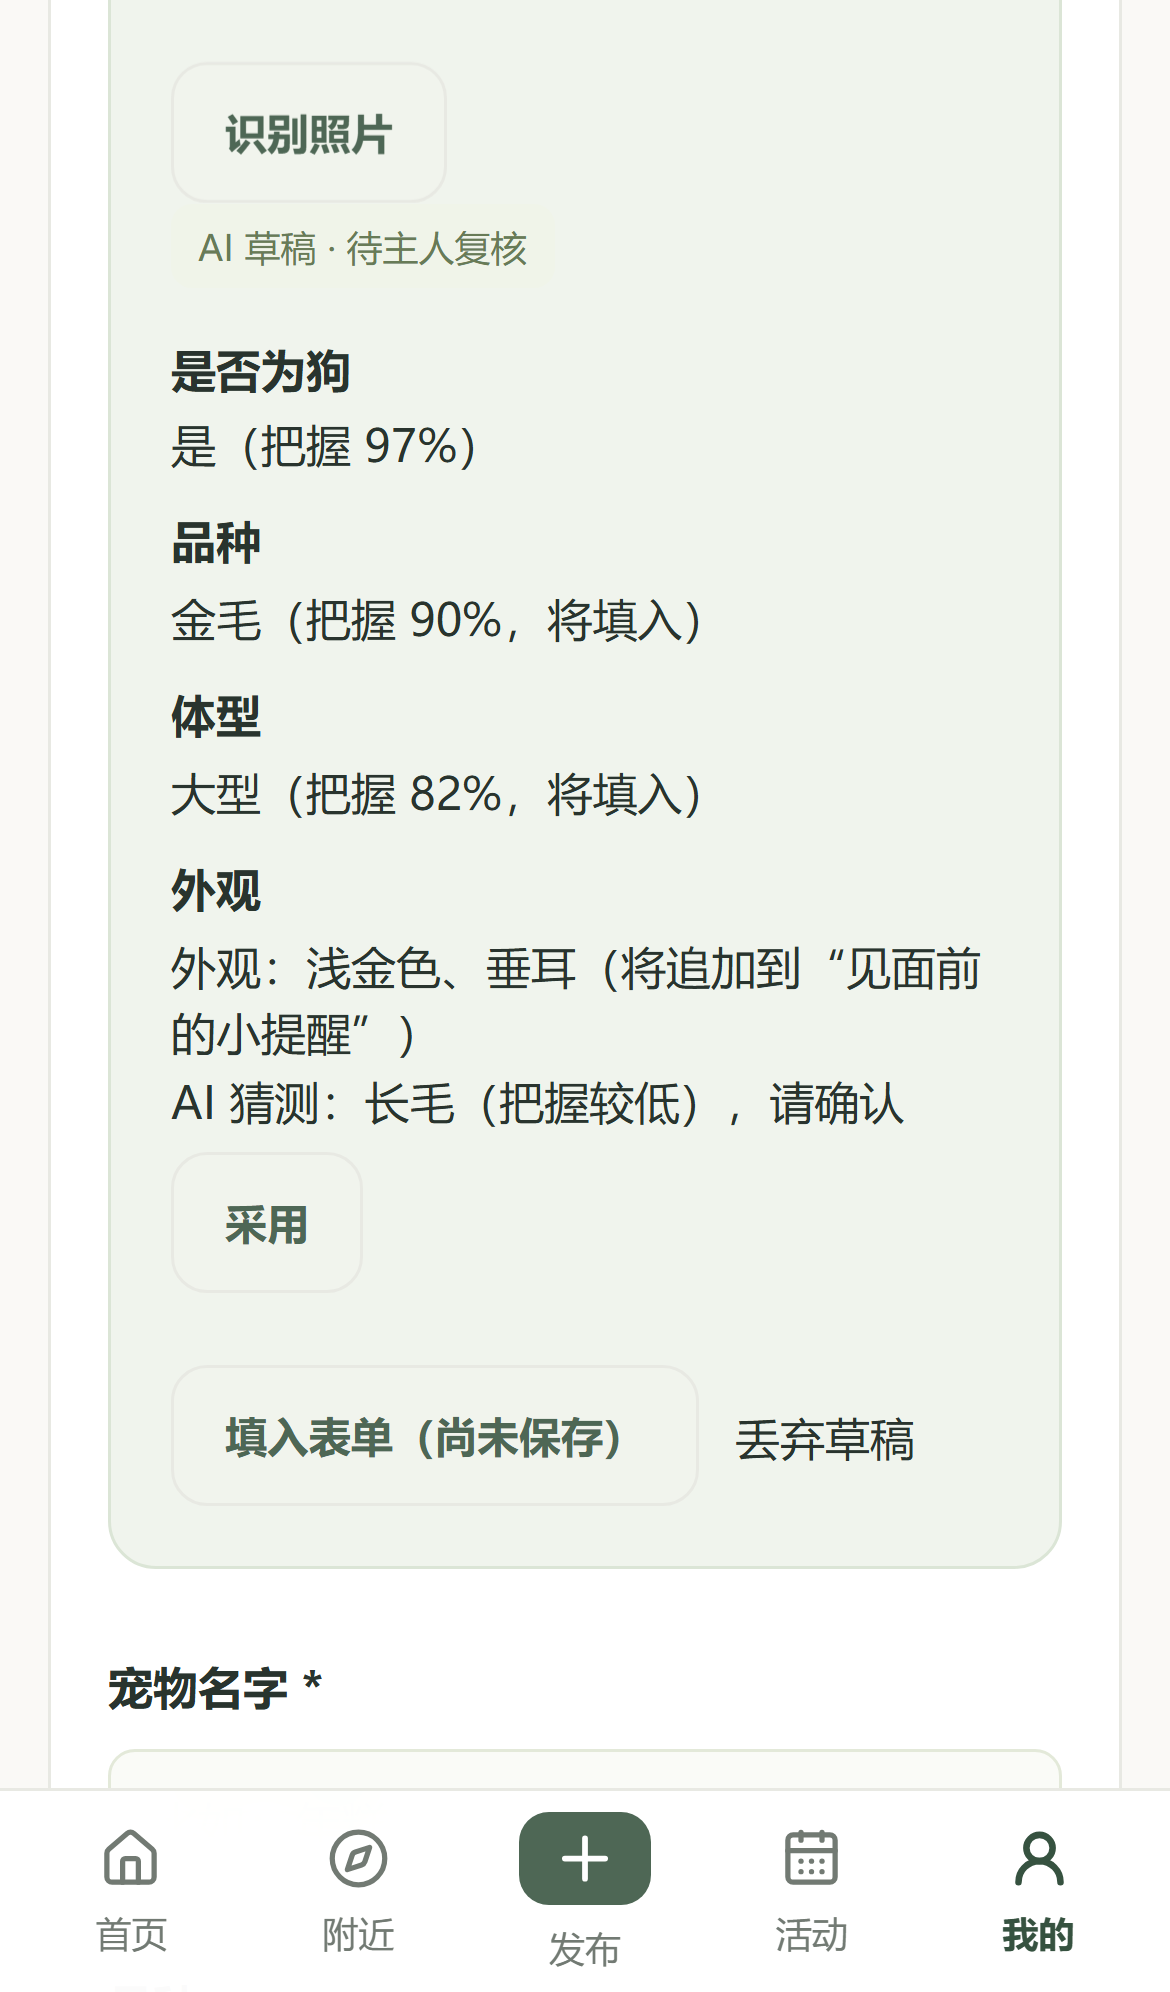
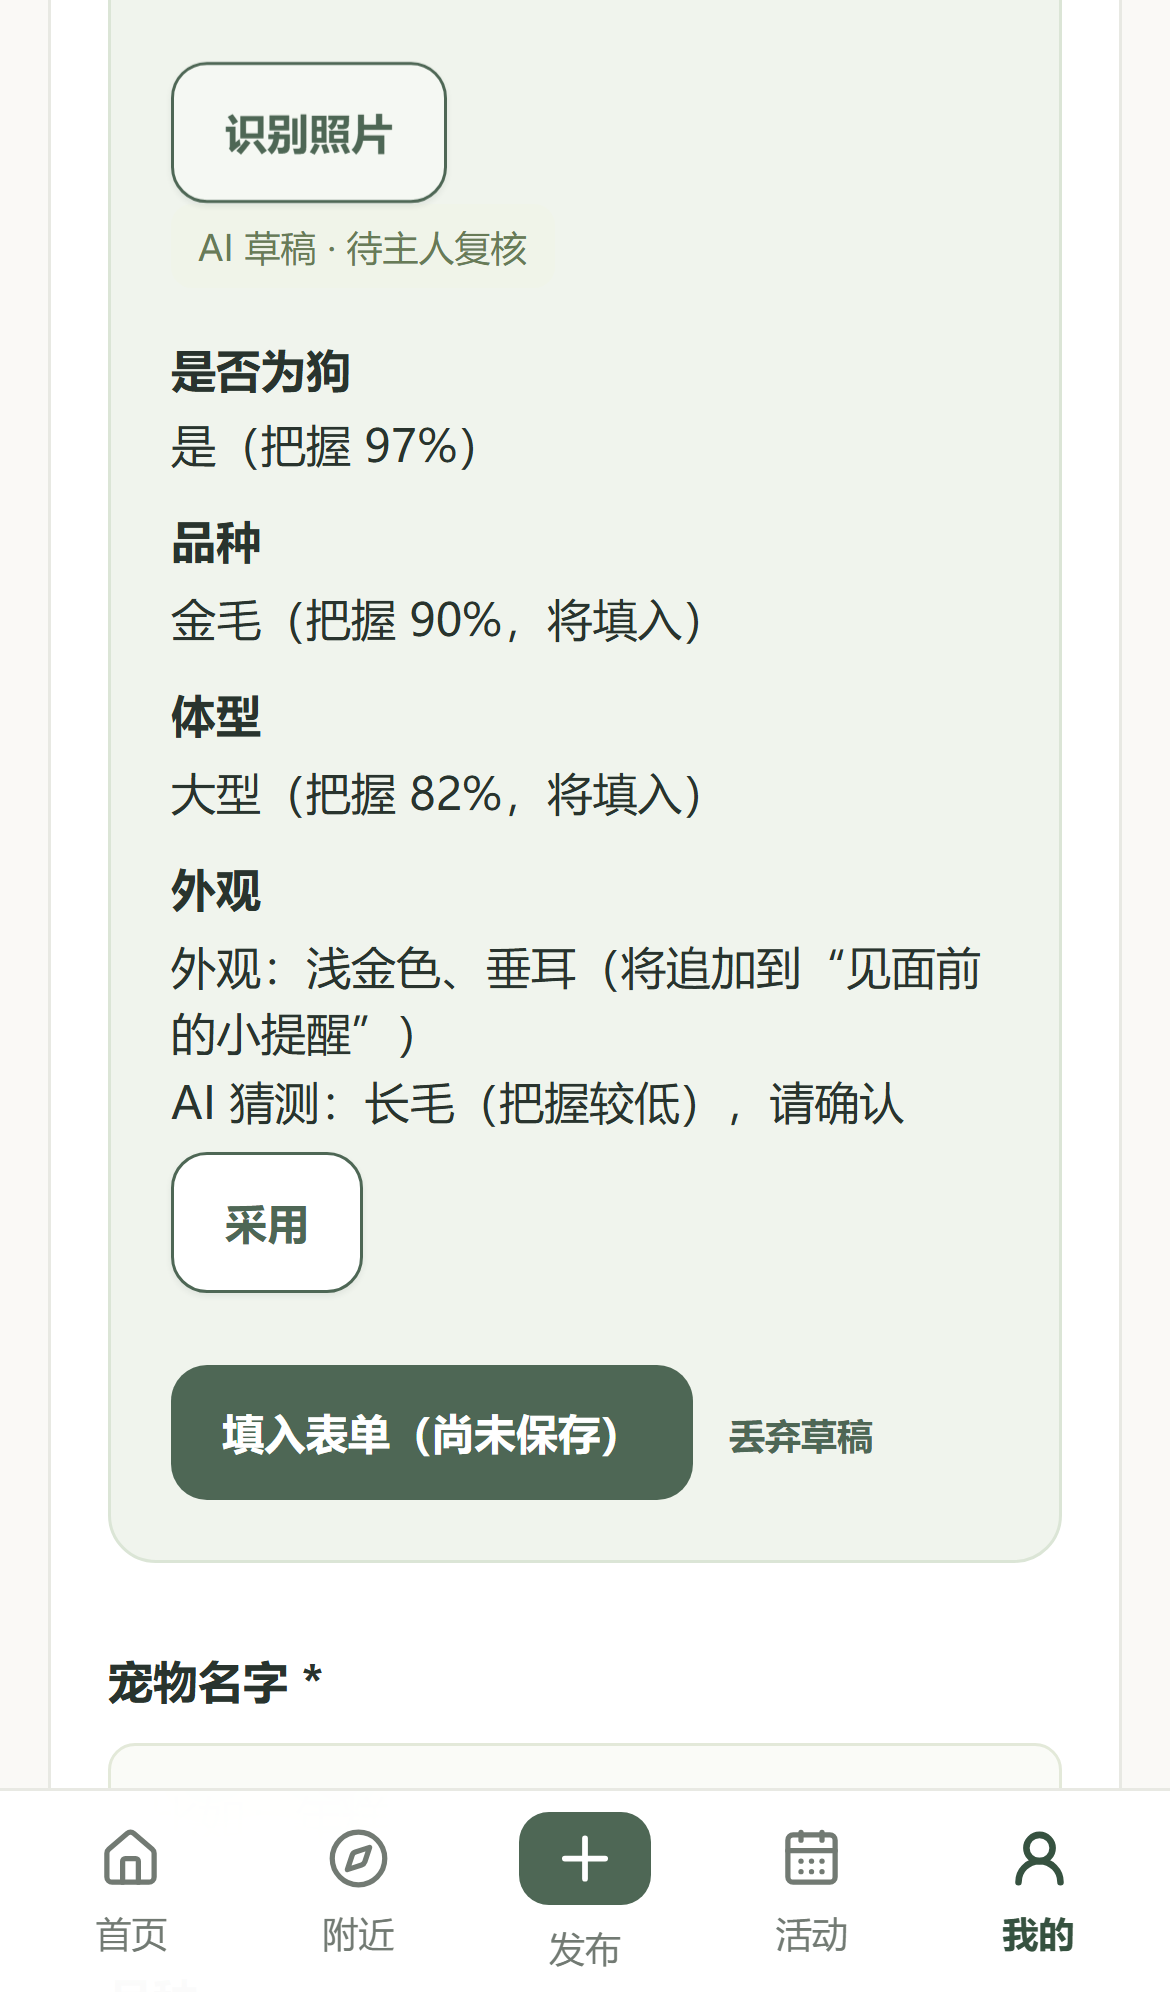
ui: clearer AI draft buttons (primary fill, outlined adopt, text-link discard)

Changed region(s): [[0.1231, 0.6847, 0.8, 0.7781], [0.0923, 0.8092, 0.2462, 0.9026]]

diff --git a/src/features/ai/draft.tsx b/src/features/ai/draft.tsx
@@ -219,7 +219,7 @@ export function AiDraft<T extends AiTask>({
           <div className="button-row">
             <button
               type="button"
-              className="button secondary"
+              className="button"
               disabled={disabled || applied}
               onClick={() => {
                 onApply(data);
@@ -228,7 +228,11 @@ export function AiDraft<T extends AiTask>({
             >
               {applied ? "已填入，请检查下方表单" : applyLabel}
             </button>
-            <button type="button" onClick={() => setData(null)}>
+            <button
+              type="button"
+              className="text-link"
+              onClick={() => setData(null)}
+            >
               丢弃草稿
             </button>
           </div>

diff --git a/src/features/ai/photo.tsx b/src/features/ai/photo.tsx
@@ -271,7 +271,7 @@ export function PhotoRecognize({
           <div className="button-row">
             <button
               type="button"
-              className="button secondary"
+              className="button"
               disabled={disabled || applied || !fillable}
               onClick={() => {
                 onApply(fill!);
@@ -288,6 +288,7 @@ export function PhotoRecognize({
             </button>
             <button
               type="button"
+              className="text-link"
               onClick={() => {
                 setDraft(null);
                 setApplied(false);

diff --git a/src/app/globals.css b/src/app/globals.css
@@ -2333,3 +2333,6 @@ textarea {
 .photo-suggestion .button-row { margin: 0; }
 .ai-preview dd { margin: 0; }
 @media(max-width: 500px) { .ai-preview > div { grid-template-columns: 1fr; gap: .2rem; } }
+/* AI panels share the panel's pale green, so secondary buttons need their own surface. */
+.ai-panel .button.secondary { background: #fff; border-color: var(--green); box-shadow: 0 1px 2px rgb(41 52 46 / 0.08); }
+.ai-panel .button.secondary:hover:not(:disabled) { background: #e4ecdf; }
